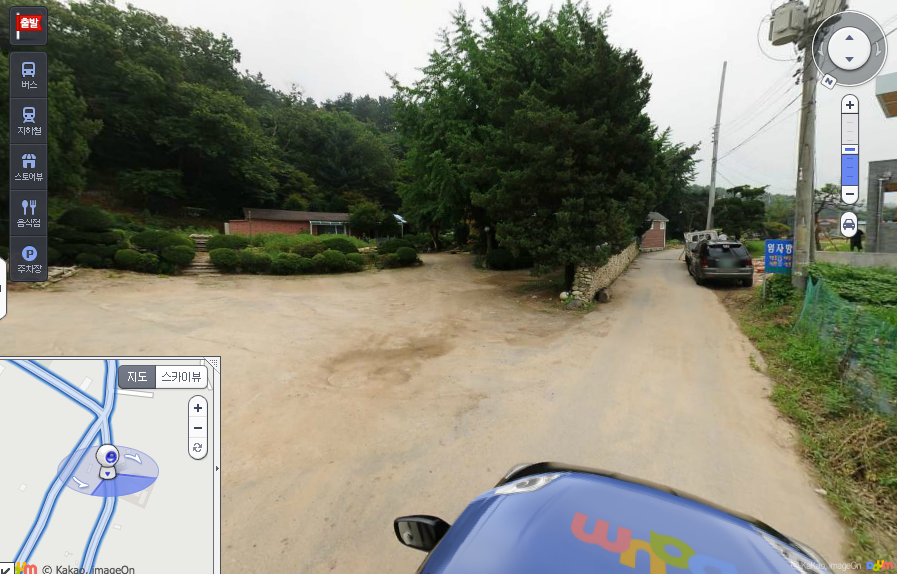
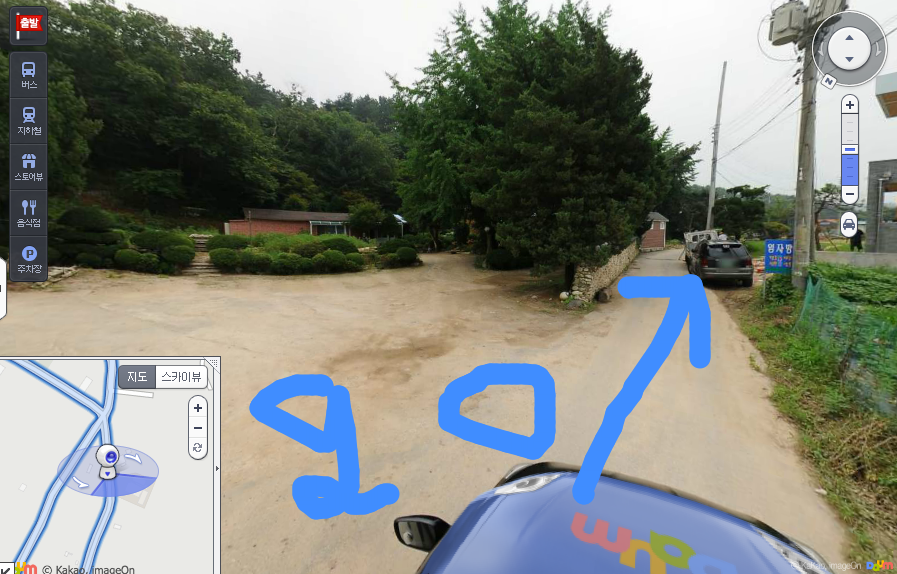
i think this is final

Changed region(s): [[0.6243, 0.4739, 0.8116, 0.8885], [0.2809, 0.6516, 0.4682, 0.9181], [0.4682, 0.622, 0.6243, 0.7997]]

diff --git a/index.html b/index.html
@@ -18,7 +18,7 @@
     <div class="jumbotron">
       <div class="container">
         <h1>3지구 LT "연꽃펜션" 찾아오는법!</h1>
-        <p>후발대들이여~ 이거봐도 모르시겠으면, 010-9465-3744 (회장 김웅빈 바오로) 로 전화주세요<br>하지만, 그럴일은 없을꺼임ㅋ</p>
+        <p>후발대들이여~ 이거봐도 모르시겠으면, 010-9465-3744 (회장 김웅빈 바오로) 로 전화주세요<br>하지만, 이걸 보게 된다면 그럴일은 없을꺼임ㅋ</p>
 			</div>
     </div>
 
@@ -27,25 +27,58 @@
       <div class="row">
         <div class="col-md-12">
           <h2>1.먼저 연신내역,구파발역에서 360번 버스를 타주세요!</h2>
-          <img src="images/1.png">
+          <img src="images/1.png" class="img-responsive">
           <p>일영가는 방면으로 타야뎀, 서울방면으로 타지마셈ㅋㅋㅋ</p>
         </div>
+        
         <div class="col-md-12">
-          <h2>Heading</h2>
-          <p>Donec id elit non mi porta gravida at eget metus. Fusce dapibus, tellus ac cursus commodo, tortor mauris condimentum nibh, ut fermentum massa justo sit amet risus. Etiam porta sem malesuada magna mollis euismod. Donec sed odio dui. </p>
-          <p><a class="btn btn-default" href="#" role="button">View details &raquo;</a></p>
-       </div>
-        <div class="col-md-12">
-          <h2>Heading</h2>
-          <p>Donec sed odio dui. Cras justo odio, dapibus ac facilisis in, egestas eget quam. Vestibulum id ligula porta felis euismod semper. Fusce dapibus, tellus ac cursus commodo, tortor mauris condimentum nibh, ut fermentum massa justo sit amet risus.</p>
-          <p><a class="btn btn-default" href="#" role="button">View details &raquo;</a></p>
+          <h2>2.버스타고 "정자동다리.일영유원지" 정류장에서 내리세염ㅋ</h2>
+          <img src="images/2.png" class="img-responsive">
+          <p>내려서 오른쪽으로 가야됨! 왼쪽으로 가지 마셈!!!</p>
         </div>
+        
+        <div class="col-md-12">
+          <h2>3.내린후, 오른쪽으로 가서 "천생연분마을"방면 다리를 건너셈</h2>
+          <img src="images/3.png" class="img-responsive">
+          <p>다리를 건너랏ㅋㅋㅋ</p>
+        </div>
+        
+        <div class="col-md-12">
+          <h2>4.다리 건너면 사거리 있는데, 당연히 직진이지</h2>
+          <img src="images/4.png" class="img-responsive">
+          <p>거의 다옴ㅋ</p>
+        </div>
+        
+        <div class="col-md-12">
+          <h2>5.직ㅋ진ㅋ</h2>
+          <img src="images/5.png" class="img-responsive">
+          <p>다왔음ㅋ</p></p>
+        </div>
+        
+        <div class="col-md-12">
+          <h2>6.화살표를 따라따라</h2>
+          <img src="images/6.png" class="img-responsive">
+          <p>이제 진짜 다옴ㅋ</p>
+        </div>
+        
+        <div class="col-md-12">
+          <h2>7.다왔어 내 다리야! 조금만 더 힘을!</h2>
+          <img src="images/7.png" class="img-responsive">
+          <p>에이 다왔당께ㅋ</p>
+        </div>
+        
+        <div class="col-md-12">
+          <h2>8.이 집 나올때까지 스트레이트 직ㅋ진ㅋ</h2>
+          <img src="images/8.png" class="img-responsive">
+          <p>가깝지?ㅋ ㅇㅈ?</p>
+        </div>
+        
       </div>
 
       <hr>
 
       <footer>
-        <p>&copy; 2016 Company, Inc.</p>
+        <p>&copy; 2016 서울대교구 3지구 교사연합회</p>
       </footer>
     </div> <!-- /container -->
 
